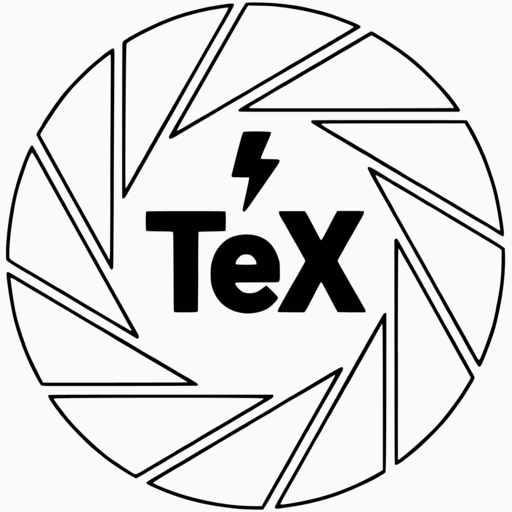
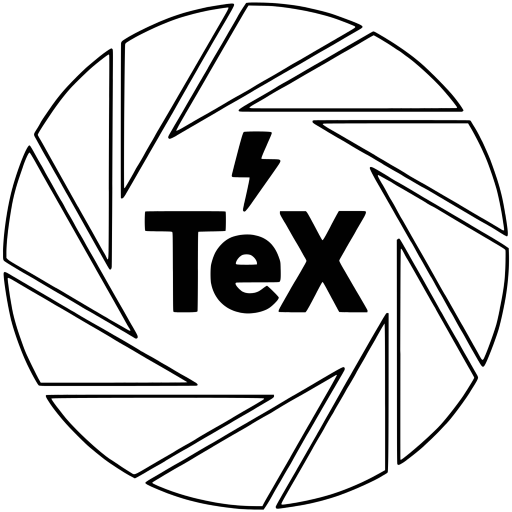
Use compact SVG branding across web and docs

diff --git a/src/test/web-assets.test.ts b/src/test/web-assets.test.ts
@@ -81,19 +81,21 @@ suite('Standalone web assets', () => {
             for (const asset of [
                 'index.html', 'manifest.webmanifest',
                 'demo/main.tex', 'demo/sections/project-editing.tex', 'demo/sample.bib', 'demo/frog.jpg',
-                'media/favicon.ico', 'media/icon-32.png', 'media/icon.png', 'media/icon-192.png', 'media/icon-512.png',
+                'media/icon.svg',
                 'media/vendor/tikzjax/tex.wasm.gz'
             ]) {
                 assert.ok(existsSync(join(build.outDir, asset)), `Missing static asset: ${asset}`);
             }
             assert.match(indexHtml, /href="manifest\.webmanifest\?v=[a-f0-9]{12}"/);
-            assert.match(indexHtml, /href="media\/favicon\.ico\?v=[a-f0-9]{12}"/);
-            assert.match(indexHtml, /href="media\/icon-32\.png\?v=[a-f0-9]{12}"/);
-            assert.match(indexHtml, /href="media\/icon-192\.png\?v=[a-f0-9]{12}"/);
-            assert.match(indexHtml, /src="media\/icon\.png\?v=[a-f0-9]{12}"/);
+            assert.match(indexHtml, /href="media\/icon\.svg\?v=[a-f0-9]{12}"/);
+            assert.equal(indexHtml.match(/src="media\/icon\.svg\?v=[a-f0-9]{12}"/g)?.length, 2);
+            assert.doesNotMatch(indexHtml, /media\/(?:icon[^"?]*\.png|favicon\.ico)/);
+            for (const rasterIcon of ['media/favicon.ico', 'media/icon.png', 'media/icon-32.png', 'media/icon-192.png', 'media/icon-512.png']) {
+                assert.equal(existsSync(join(build.outDir, rasterIcon)), false, `${rasterIcon} must not ship with the Web app`);
+            }
             assert.match(indexHtml, /src="web-main\.js\?v=[a-f0-9]{12}"/);
             assert.match(indexHtml, /connect-src 'self' blob:/);
-            assert.doesNotMatch(indexHtml, /\b(?:href|src|data-[\w-]+)="\//);
+            assert.doesNotMatch(indexHtml, /\b(?:href|src|srcset|data-[\w-]+)="\//);
             const rejectedAsset = await fetch(new URL(`/%2e%2e/${basename(outsideAsset)}`, baseUrl));
             assert.equal(rejectedAsset.status, 404);
             await rejectedAsset.arrayBuffer();
@@ -105,21 +107,17 @@ suite('Standalone web assets', () => {
             const manifest = JSON.parse(await fetchText(baseUrl, '/manifest.webmanifest'));
             assert.equal(manifest.theme_color, '#000000');
             assert.deepEqual(
-                manifest.icons.map((icon: { sizes: string; purpose: string }) => [icon.sizes, icon.purpose]),
+                manifest.icons.map((icon: { sizes: string; type: string; purpose: string }) => [icon.sizes, icon.type, icon.purpose]),
                 [
-                    ['192x192', 'any'],
-                    ['512x512', 'any']
+                    ['any', 'image/svg+xml', 'any']
                 ]
             );
-            assert.match(manifest.icons[0].src, /^media\/icon-192\.png\?v=[a-f0-9]{12}$/);
-            assert.match(manifest.icons[1].src, /^media\/icon-512\.png\?v=[a-f0-9]{12}$/);
-            const favicon = await fetchOk(baseUrl, '/media/favicon.ico');
-            assert.match(favicon.headers.get('content-type') ?? '', /image\/x-icon/);
-            await favicon.arrayBuffer();
-            await fetchBytes(baseUrl, '/media/icon-32.png');
-            await fetchBytes(baseUrl, '/media/icon-192.png');
-            await fetchBytes(baseUrl, '/media/icon-512.png');
+            assert.match(manifest.icons[0].src, /^media\/icon\.svg\?v=[a-f0-9]{12}$/);
+            const svgIcon = await fetchOk(baseUrl, '/media/icon.svg');
+            assert.match(svgIcon.headers.get('content-type') ?? '', /image\/svg\+xml/);
+            assert.match(await svgIcon.text(), /<svg\b/);
             const serviceWorker = await fetchText(baseUrl, '/service-worker.js');
+            assert.doesNotMatch(serviceWorker, /media\/(?:icon[^"?]*\.png|favicon\.ico)/);
             const mainScriptMatch = indexHtml.match(/src="(web-main\.js\?v=[a-f0-9]{12})"/);
             assert.ok(mainScriptMatch);
             const mainScript = mainScriptMatch[1];
@@ -237,7 +235,7 @@ suite('Standalone web assets', () => {
                 respondWith: response => { cachedResponse = response as Promise<Response>; }
             });
             assert.equal(await (await cachedResponse)?.text(), readFileSync(join(build.outDir, 'index.html'), 'utf8'));
-            for (const asset of [tikzJaxUri, 'media/vendor/tikzjax/tex.wasm.gz', 'media/vendor/pdfjs/pdf.mjs', 'demo/main.tex']) {
+            for (const asset of ['media/icon.svg', tikzJaxUri, 'media/vendor/tikzjax/tex.wasm.gz', 'media/vendor/pdfjs/pdf.mjs', 'demo/main.tex']) {
                 handlers.get('fetch')?.({
                     request: { method: 'GET', mode: 'same-origin', url: new URL(asset, 'https://snaptex.test/app/').href },
                     respondWith: response => { cachedResponse = response as Promise<Response>; }

diff --git a/apps/web/index.html b/apps/web/index.html
@@ -3,10 +3,7 @@
 <head>
     <meta charset="UTF-8">
     <meta name="viewport" content="width=device-width, initial-scale=1.0">
-    <link rel="icon" href="/media/favicon.ico" sizes="any">
-    <link rel="icon" type="image/png" sizes="32x32" href="/media/icon-32.png">
-    <link rel="icon" type="image/png" sizes="192x192" href="/media/icon-192.png">
-    <link rel="apple-touch-icon" sizes="192x192" href="/media/icon-192.png">
+    <link rel="icon" type="image/svg+xml" sizes="any" href="/media/icon.svg">
     <link rel="manifest" href="/apps/web/manifest.webmanifest">
     <meta name="theme-color" content="#f8fafc">
     <meta http-equiv="Content-Security-Policy" content="default-src 'self'; script-src 'self' 'wasm-unsafe-eval'; style-src 'self' 'unsafe-inline'; img-src 'self' data: blob:; font-src 'self' data:; connect-src 'self' blob:; worker-src 'self' blob:; frame-src 'self' blob:; object-src 'none'; base-uri 'self'; form-action 'self'">
@@ -30,7 +27,7 @@
         <header id="web-toolbar" aria-label="Project controls">
             <div class="toolbar-group">
                 <a id="snaptex-brand" href="." aria-label="SnapTeX Web">
-                    <img src="/media/icon.png" alt="" aria-hidden="true">
+                    <img src="/media/icon.svg" alt="" aria-hidden="true">
                     <span>SnapTeX</span>
                 </a>
                 <button id="toggle-explorer-button" type="button" aria-expanded="false" aria-controls="explorer-panel">Explorer</button>
@@ -175,7 +172,7 @@
             </aside>
             <section id="welcome-page" aria-labelledby="welcome-title">
                 <div class="welcome-content">
-                    <img src="/media/icon.png" alt="" aria-hidden="true">
+                    <img src="/media/icon.svg" alt="" aria-hidden="true">
                     <p class="welcome-kicker">LaTeX editor and live preview</p>
                     <h1 id="welcome-title">SnapTeX</h1>
                     <p>Open a local project folder to start editing, or explore the bundled demo.</p>

diff --git a/docs/.vitepress/theme/custom.css b/docs/.vitepress/theme/custom.css
@@ -16,6 +16,10 @@
     height: 28px;
 }
 
+.dark .VPNavBarTitle .logo {
+    filter: brightness(0) invert(1);
+}
+
 .VPNavBarMenuLink.active {
     box-shadow: inset 0 -2px var(--vp-c-brand-1);
     font-weight: 700;

diff --git a/tools/icons/README.md b/tools/icons/README.md
@@ -1,0 +1,64 @@
+# Icon assets
+
+Keep three canonical assets in `media/`:
+
+| Asset | Purpose |
+| --- | --- |
+| `icon.svg` | Web toolbar, welcome page, favicon, GitHub README, docs, and SVG-capable PWA installers |
+| `icon.png` (192 × 192) | Small raster export retained at the user's request; not shipped in Web or VSIX builds |
+| `icon-512.png` (512 × 512) | VS Code extension icon and Marketplace README logo |
+
+`icon.png` is the former `icon-192.png`, renamed rather than duplicated.
+There is no separate 32px PNG or ICO. The original 2152px source is unnecessary
+for these distributions. Web builds ship only the SVG icon, declared with
+`sizes: "any"` in the PWA manifest, and precache it for offline use. Its URL
+includes a content hash, so unchanged icons remain reusable from cache.
+
+The Web app targets browsers with SVG icon support. Chromium supports SVG
+manifest icons; Safari 26 adds SVG favicons and Home Screen/Dock icons. Older
+Safari/iOS versions may show a generic icon when installing the Web app.
+Supporting those installation icons would require a raster fallback, which
+is intentionally omitted from Web builds.
+
+`prepare-assets.mjs --docs` copies the canonical SVG into VitePress's public
+directory before development or production builds. That generated file is
+ignored by Git; do not maintain a second SVG in `docs/public/`.
+
+VS Code Marketplace disallows SVG extension icons and custom SVG images in
+extension descriptions. `prepare-assets.mjs --vscode` generates
+`dist/README.md` from the root README, replacing only the logo URL with
+`media/icon-512.png`. The `vsce.readmePath` setting selects this generated
+README automatically when packaging or publishing; the `vscode:prepublish`
+build generates it. The extension includes only the 512px icon, while the
+root README keeps the SVG for GitHub.
+
+References: [VS Code publishing rules](https://code.visualstudio.com/api/working-with-extensions/publishing-extension),
+[PWA manifest icons](https://web.dev/articles/add-manifest),
+[Web App Manifest specification](https://www.w3.org/TR/appmanifest/), and
+[Safari 26 SVG icon support](https://webkit.org/blog/16993/news-from-wwdc25-web-technology-coming-this-fall-in-safari-26-beta/).
+
+## SVG typography
+
+`media/icon.svg` traces the original `TeX` lettering from `media/icon-512.png`,
+preserving its proportions, spacing, and flat terminals. The icon contains
+paths, not text elements, embedded fonts, or font requests.
+
+The lettering was traced with Potrace after compositing the PNG on white and
+upsampling it four times with Lanczos interpolation. Tracing uses a threshold
+of 128, a speckle size of 2, and a curve optimization tolerance of 0.5 in the
+upsampled coordinates. The paths are scaled back to the original 512-unit
+coordinate system and optimized with SVGO at one decimal place. The SVG shifts
+the origin to the center of the icon.
+
+The lettering uses `evenodd` filling so that the traced counter inside `e`
+stays open. Preserve the original letter shapes when making further edits.
+
+The aperture defines one petal, combines three copies at 0, 120, and 240
+degrees into a group, and reuses that group at 0, 30, 60, and 90 degrees.
+This produces the same twelve petals while reducing repeated markup.
+For compact encoding, the viewBox, coordinates, and stroke width are doubled
+together, preserving the rendered size and aperture geometry. The lettering
+and lightning are optimized with integer coordinates in that doubled system
+(a half-unit grid in the original 512-unit system). This removes redundant
+path segments while keeping the original lettering visually equivalent at
+normal icon sizes. The petal path retains its original geometry exactly.

diff --git a/README.md b/README.md
@@ -7,7 +7,7 @@ Fast, local-first LaTeX editing and structural preview for VS Code and the brows
 > **What's new in 0.8.1:** Faster, steadier elastic paged preview with configurable margins, broader LaTeX rendering across both backends, and more reliable bidirectional scrolling. Continuous preview remains available in settings. Contributors can use the new [arXiv source audit](tools/arxiv-audit/README.md) to check real papers against both backends.
 
 <p align="center">
-  <img src="media/icon.png" alt="SnapTeX logo" width="150">
+  <img src="media/icon.svg" alt="SnapTeX logo" width="150">
 </p>
 
 SnapTeX renders prose, math, references, citations, figures, PDFs, tables, algorithms, theorem-like environments, and TikZ without requiring a local TeX distribution. It is designed for responsive writing and navigation; use a full TeX toolchain for final pagination and publication output.
